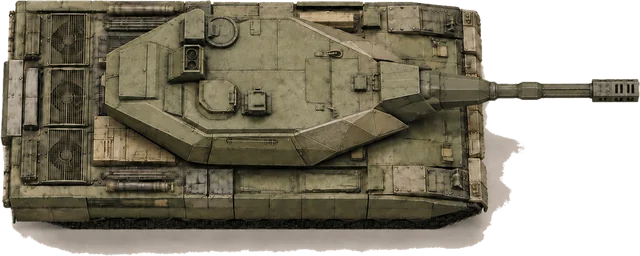
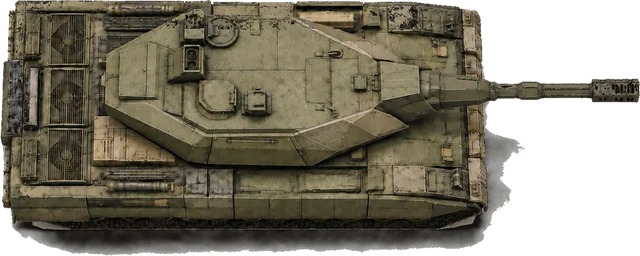
Clean the halo off the runway vehicles, and shorten the Task Force labels
The five vehicles kept a pale rim: the source's soft contact shadow was
close enough to the background to survive the cutout but too far to be
removed, so it rendered as a white plate on the tarmac. Low-saturation
pixels in a band around the removed background are now re-cut as shadow -
alpha from how much darker than the background they are - so the shadow
stays and the rim goes.

The Task Force slabs say ALPHA, BRAVO, CHARLIE, DELTA over their state; the
full "Task Force Alpha" did not fit one slab at phone size.

Claude-Session: https://claude.ai/code/session_01PD8ZQVbFQYnyuDNWfiLyC2

diff --git a/src/live/BaseBoard.tsx b/src/live/BaseBoard.tsx
@@ -52,7 +52,6 @@ import {
   TASK_FORCE_PADS,
   padTakesBuildings,
 } from '../../shared/base';
-import {taskForceName} from './taskForce';
 
 /** A second tap after this is a new selection, not an open. */
 const DOUBLE_TAP_MS = 650;
@@ -418,7 +417,7 @@ export default function BaseBoard({
                 zIndex: 8,
               }}
             >
-              <span className="whitespace-nowrap font-semibold text-neutral-800/90">{taskForceName(squad)}</span>
+              <span className="whitespace-nowrap font-semibold uppercase tracking-wider text-neutral-800/90">{squad}</span>
               <span className={`mt-0.5 rounded bg-black/70 px-1.5 text-[0.85em] font-semibold ${tint}`}>{state}</span>
             </div>
           );
